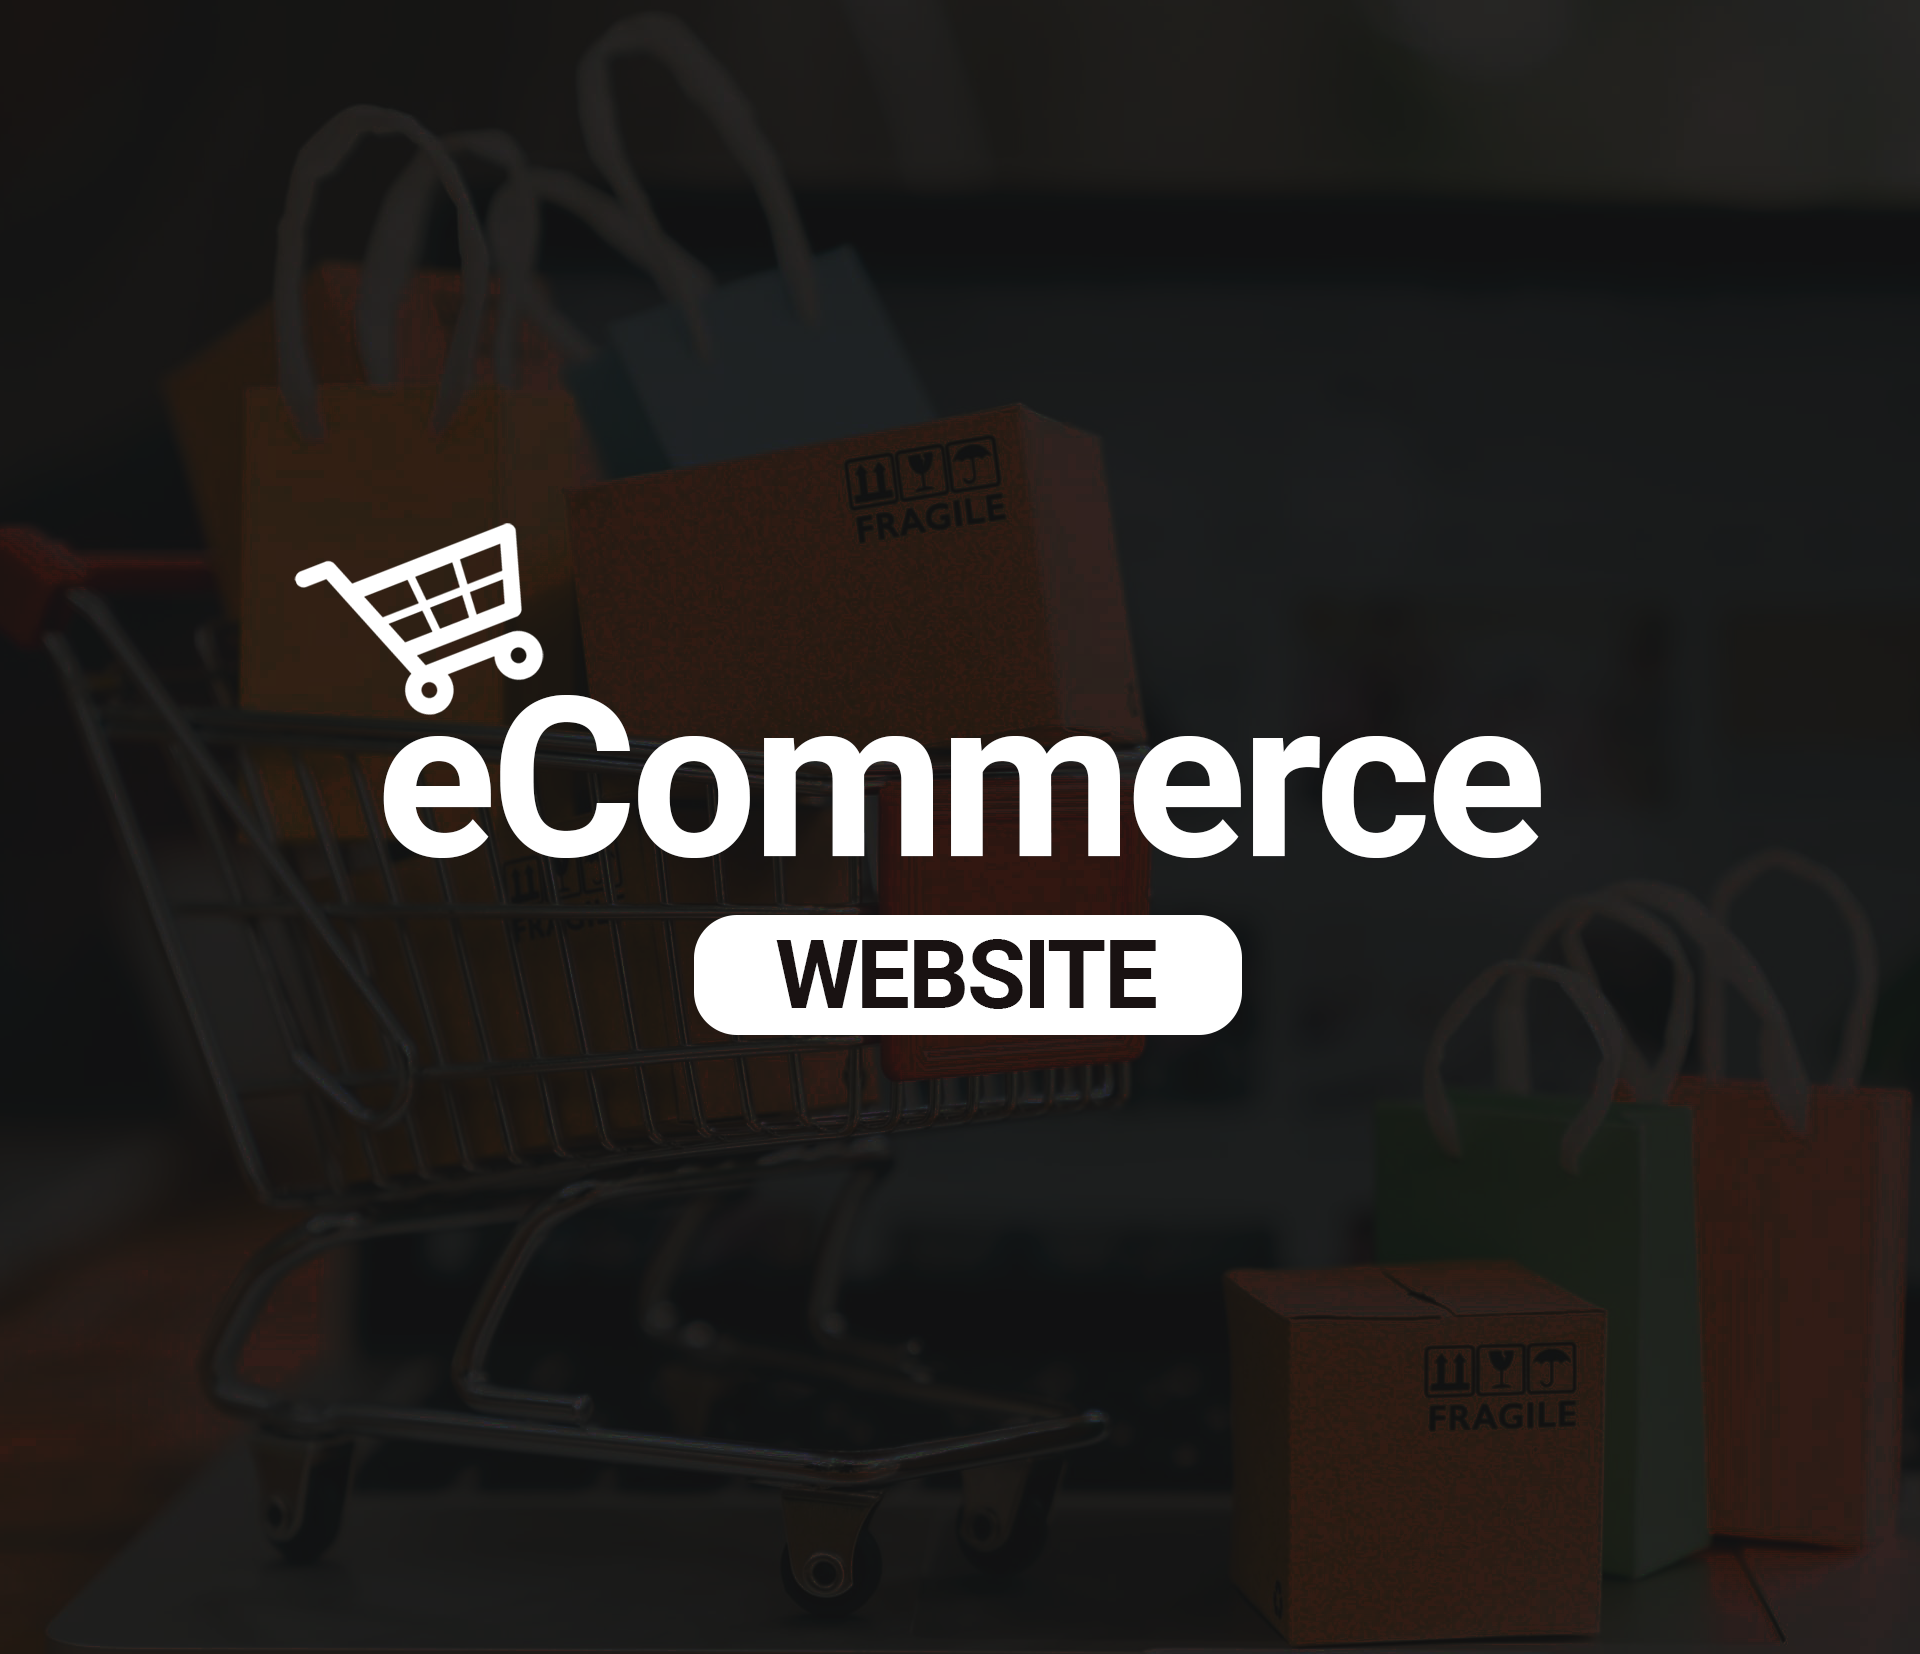
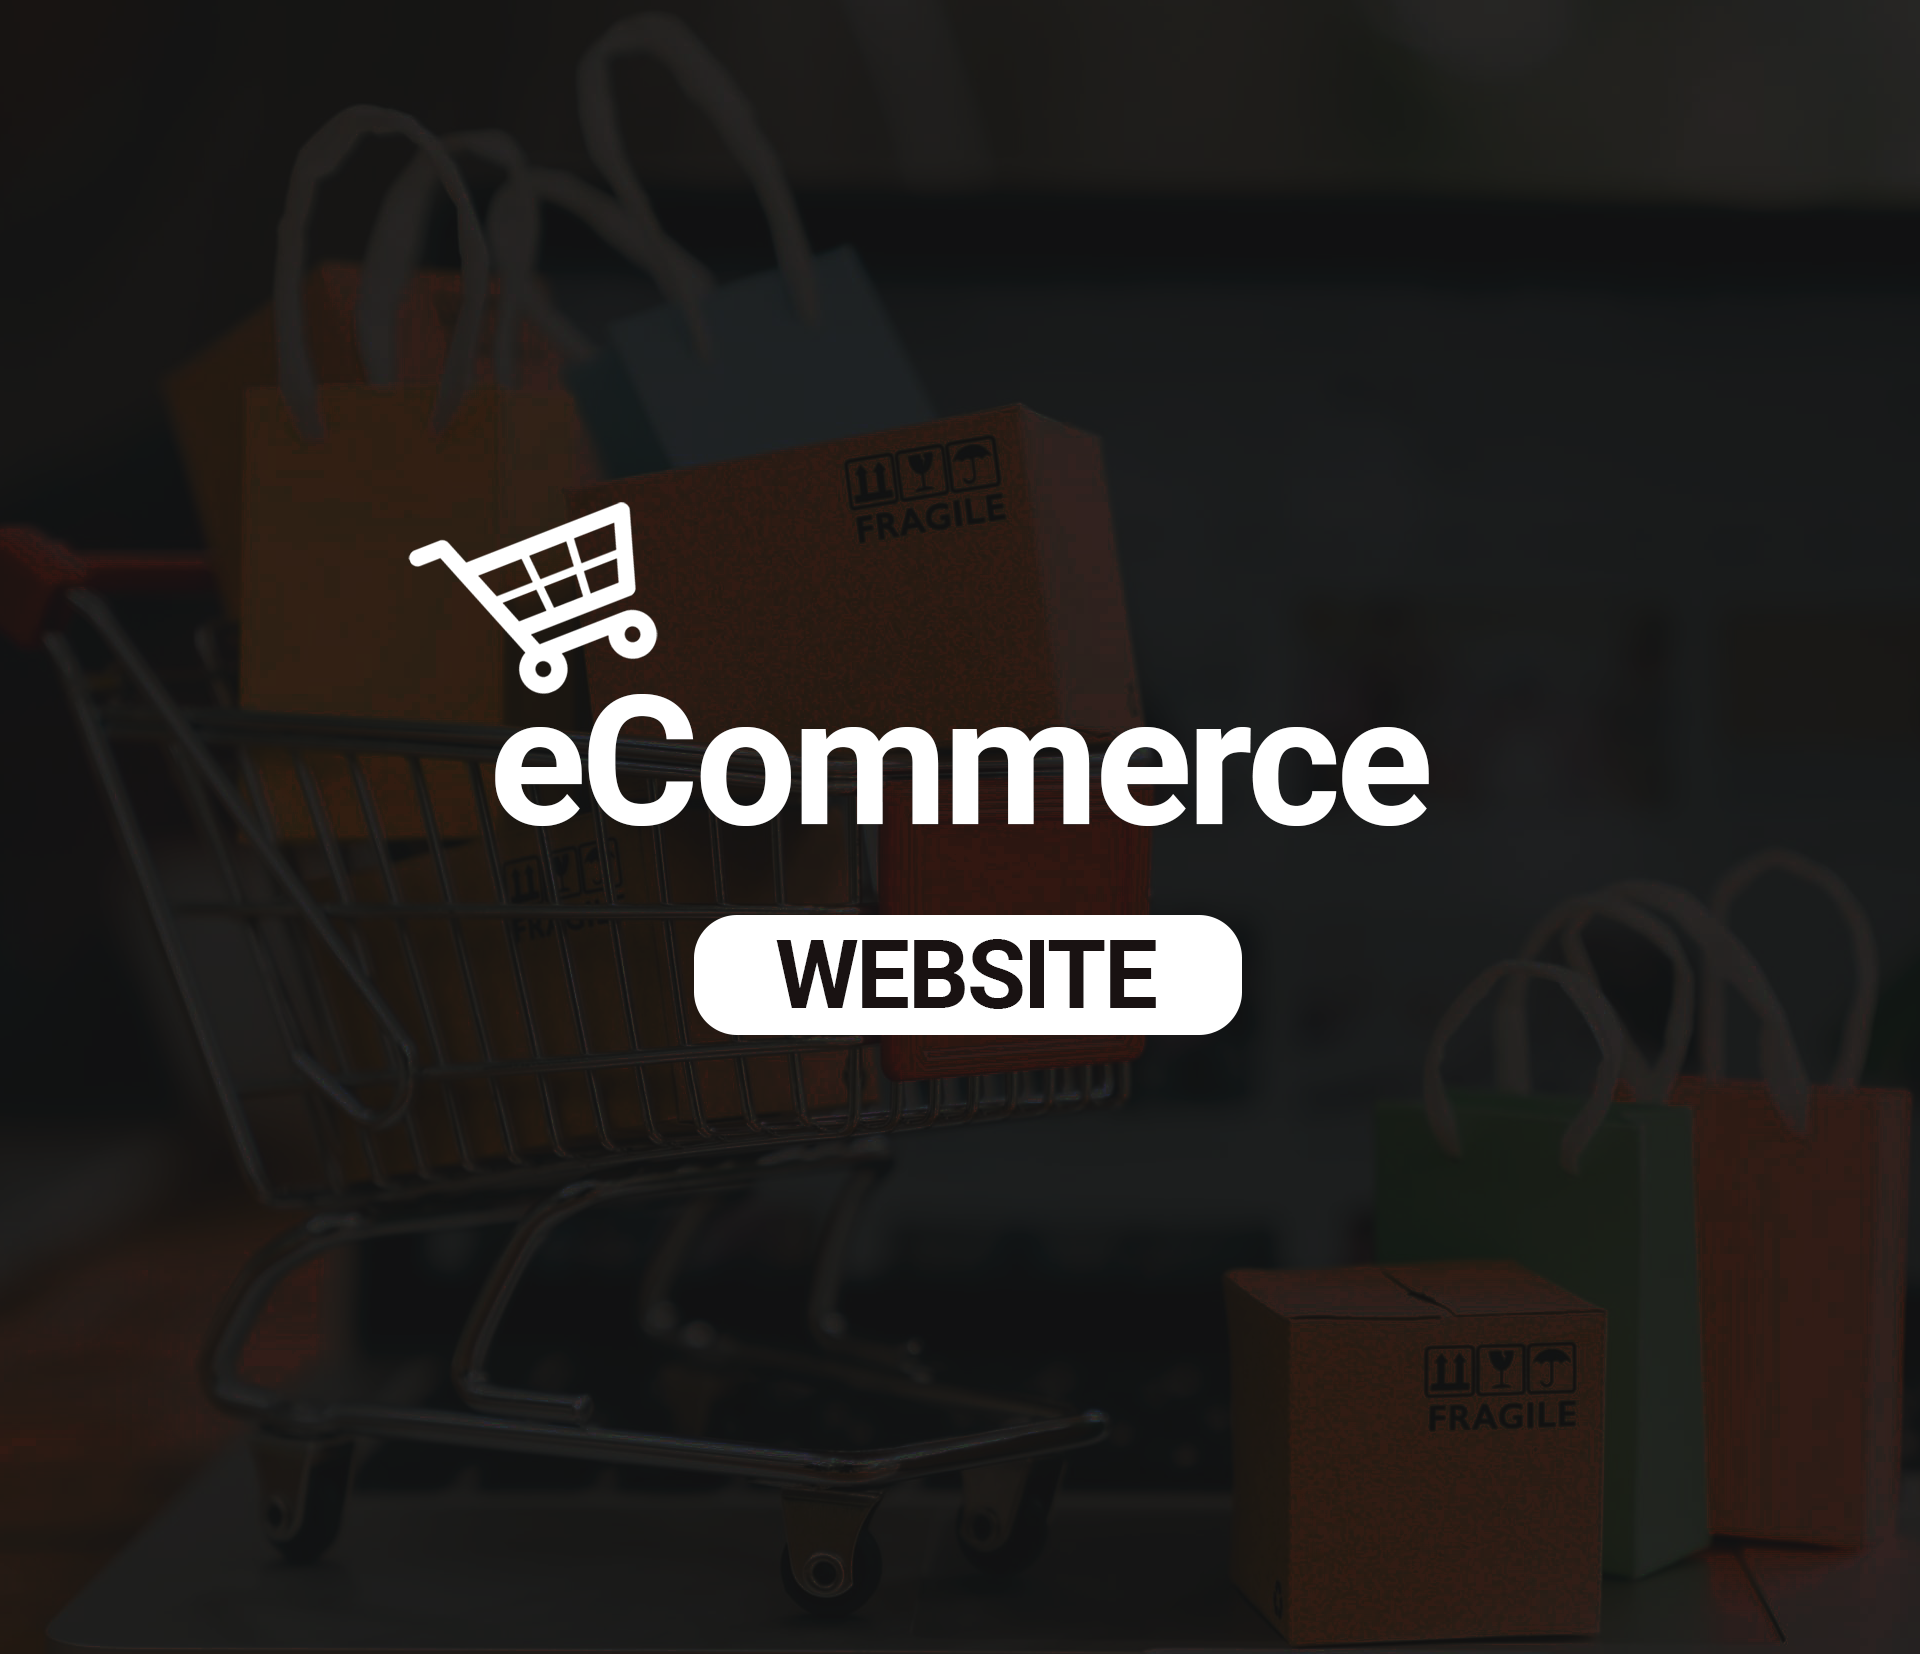
revised projects cover and added linkedin link to homepage

Changed region(s): [[0.1562, 0.3083, 0.8125, 0.5242]]

diff --git a/src/components/HeroSection.jsx b/src/components/HeroSection.jsx
@@ -63,11 +63,16 @@ const HeroSection = () => {
           </div>
         </div>
         <div className="button-wrapper flex gap-[10px]">
-          <button className="linkedin py-[5px] px-[10px] text-xs md:text-lg flex gap-[6px] items-center cursor-pointer font-medium bg-[#00d9db] text-black rounded-md hover:bg-[#00b8bb] duration-300">
-            <i className="fa-brands fa-linkedin" />
-            Let's Connect!
-          </button>
-
+          <a
+            href="https://www.linkedin.com/in/erwin-james-caluag-6b2304150/"
+            target="_blank"
+            rel="noreferrer"
+          >
+            <button className="linkedin py-[5px] px-[10px] text-xs md:text-lg flex gap-[6px] items-center cursor-pointer font-medium bg-[#00d9db] text-black rounded-md hover:bg-[#00b8bb] duration-300">
+              <i className="fa-brands fa-linkedin" />
+              Let's Connect!
+            </button>
+          </a>
           <Link to="projects" smooth={true} duration={500}>
             <button className="projects-btn py-[5px] px-[10px] text-xs md:text-lg flex gap-[6px] items-center cursor-pointer font-medium text-[#00d9db] rounded-md border-[2px] border-solid border-[#00d9db] hover:bg-[#18273b] duration-300">
               <i className="fa-solid fa-laptop-code"></i>
